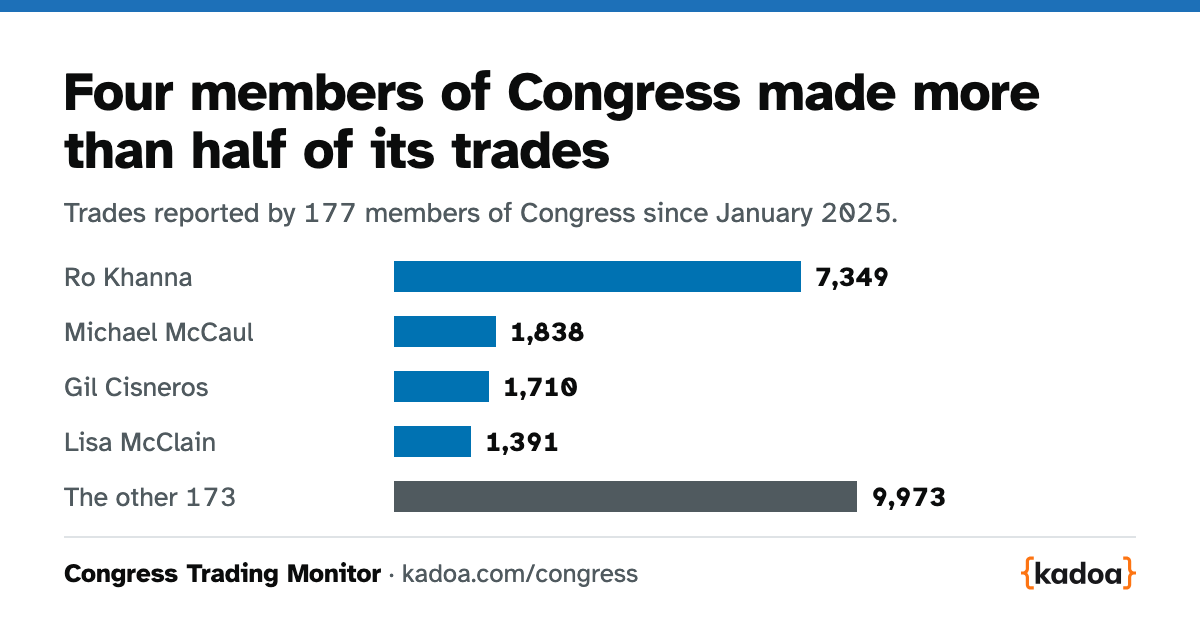
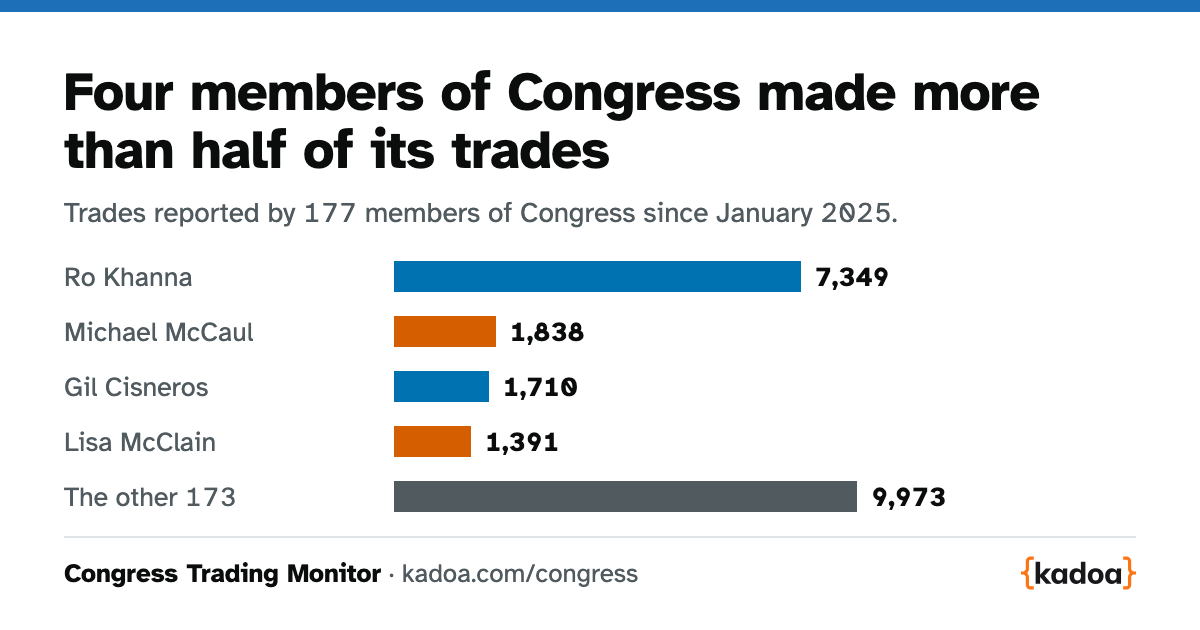
Trade concentration insight: bars coloured by party with a key, grouped bars split by party, Trump's accounts last in grey

Changed region(s): [[0.3083, 0.4825, 0.4317, 0.573], [0.3083, 0.6635, 0.4008, 0.7238]]

diff --git a/src/components/TradeConcentration.jsx b/src/components/TradeConcentration.jsx
@@ -5,8 +5,12 @@ import { ExtLink, fmtInt, HOUSE_FILINGS, Link, SENATE_FILINGS } from "../ui";
 // How concentrated Congress's reported trades are: each member's count since the 119th Congress began, the most
 // active first, and the same total beside Trump's accounts. The data is built in the datasets repo
 // (services/custom/datasets/congress-trading/charts/trade-concentration/site-data.mjs).
-// Colours: the four members the title names in blue, everyone else grey, Trump's accounts vermilion (Okabe-Ito).
-const C = { lead: "#0072B2", rest: "#9aa0a6", trump: "#D55E00", muted: "#505a5f" };
+// Colours: a member's party, in the two Okabe-Ito hues that stay apart under colour blindness (blue for Democrats,
+// vermilion for Republicans, with a darker vermilion for text). A bar of several members is split by party. Trump's
+// accounts are dark grey: a comparison, not a member.
+const C = { D: "#0072B2", R: "#D55E00", other: "#8a9096", trump: "#505a5f", muted: "#505a5f" };
+const TEXT = { D: "#0072B2", R: "#B34E00" };
+const PARTIES = [["D", "Democrats"], ["R", "Republicans"]];
 const LEAD = 4, TOP = 10;
 const MONTHS = ["Jan", "Feb", "Mar", "Apr", "May", "Jun", "Jul", "Aug", "Sep", "Oct", "Nov", "Dec"];
 const day = (s) => `${+s.slice(8)} ${MONTHS[+s.slice(5, 7) - 1]} ${s.slice(0, 4)}`;
@@ -20,10 +24,14 @@ function download(file, header, rows) {
   const a = document.createElement("a"); a.href = url; a.download = file; a.click(); URL.revokeObjectURL(url);
 }
 
-// Horizontal bars on one scale: a name, an optional note after it, the bar, then the count and an optional share.
+// Horizontal bars on one scale: a name, an optional note after it, the bar (one colour, or parts side by side), then
+// the count and an optional share. The key names the two party colours.
 function Bars({ rows, max, label }) {
   return (
     <figure className="m-0" role="img" aria-label={label}>
+      <div className="mb-3 flex flex-wrap gap-x-6 gap-y-1 text-[16px]">
+        {PARTIES.map(([k, name]) => <span key={k} className="flex items-center gap-2"><i className="block h-4 w-4 rounded-[2px]" style={{ background: C[k] }} /><b style={{ color: TEXT[k] }}>{name}</b></span>)}
+      </div>
       <div className="flex flex-col gap-2">
         {rows.map((r) => (
           <div key={r.key} className={`grid grid-cols-[124px_minmax(0,1fr)] items-center gap-3 sm:grid-cols-[250px_minmax(0,1fr)] ${r.rule ? "mt-2 border-t border-[#0b0c0c] pt-4" : ""}`}>
@@ -31,7 +39,9 @@ function Bars({ rows, max, label }) {
               <b>{r.label}</b>{r.note && <span className="block sm:ml-2 sm:inline" style={{ color: C.muted }}>{r.note}</span>}
             </div>
             <div className="flex items-center gap-2">
-              <div className="h-7 shrink-0" style={{ width: `max(3px, calc((100% - 112px) * ${(r.value / max).toFixed(4)}))`, background: r.colour }} />
+              <div className="flex h-7 shrink-0" style={{ width: `max(3px, calc((100% - 112px) * ${(r.value / max).toFixed(4)}))`, background: r.colour }}>
+                {r.parts?.map((part) => <span key={part.key} style={{ width: `${(100 * part.value) / r.value}%`, background: part.colour }} />)}
+              </div>
               <span className="whitespace-nowrap text-[16px]"><b>{fmtInt(r.value)}</b>{r.share != null && <span className="ml-2" style={{ color: C.muted }}>{r.share}</span>}</span>
             </div>
           </div>
@@ -49,15 +59,19 @@ export default function TradeConcentration() {
   const names = `${lead.slice(0, -1).map((m) => m.name).join(", ")} and ${lead.at(-1).name}`;
   const busy = members.filter((m) => m.trades >= 100).length;
   const seat = (m) => `${m.party}-${m.state}`;
+  const colour = (m) => C[m.party] ?? C.other;
+  // A group of members as one bar, Democrats first, then Republicans, then anyone else.
+  const byParty = (rows) => ["D", "R", "other"].map((k) => ({ key: k, value: sum(rows.filter((m) => (k === "other" ? m.party !== "D" && m.party !== "R" : m.party === k))), colour: C[k] })).filter((part) => part.value > 0);
   const memberBars = [
-    ...top.map((m, i) => ({ key: m.id, label: m.name, note: seat(m), value: m.trades, share: pct(m.trades), colour: i < LEAD ? C.lead : C.rest })),
-    { key: "rest", label: `The other ${rest.length} who traded`, value: sum(rest), share: pct(sum(rest)), colour: C.rest, rule: true },
+    ...top.map((m) => ({ key: m.id, label: m.name, note: seat(m), value: m.trades, share: pct(m.trades), colour: colour(m) })),
+    { key: "rest", label: `The other ${rest.length} who traded`, value: sum(rest), share: pct(sum(rest)), parts: byParty(rest), rule: true },
   ];
   const against = [
-    { key: "trump", label: "Trump's accounts", note: `to ${month(trump.to)}`, value: trump.trades, colour: C.trump },
-    { key: "congress", label: "All of Congress", note: `${members.length} members`, value: total, colour: C.rest },
-    { key: "lead", label: lead[0].name, note: seat(lead[0]), value: lead[0].trades, colour: C.lead },
+    { key: "congress", label: "All of Congress", note: `${members.length} members`, value: total, parts: byParty(members) },
+    { key: "lead", label: lead[0].name, note: seat(lead[0]), value: lead[0].trades, colour: colour(lead[0]) },
+    { key: "trump", label: "Trump's accounts", note: `to ${month(trump.to)}`, value: trump.trades, colour: C.trump, rule: true },
   ];
+  const partyTrades = (k) => sum(members.filter((m) => m.party === k));
   const ranked = members.map((m, i) => ({ ...m, rank: i + 1 }));
   return (
     <>
@@ -68,7 +82,7 @@ export default function TradeConcentration() {
       <ChartCard
         id="members-title"
         title={`${lead[0].name} alone made ${pct(lead[0].trades)} of the trades`}
-        description={`Trades reported by each of the ${TOP} most active members and their share of the total. ${busy} members made 100 or more.`}
+        description={`Trades reported by each of the ${TOP} most active members and their share of the total. ${busy} members made 100 or more. Democrats made ${fmtInt(partyTrades("D"))} of the trades and Republicans ${fmtInt(partyTrades("R"))}.`}
         date={`${day(from)} to ${day(to)}`}
         tabs={[
           { label: "Chart", content: <Bars rows={memberBars} max={memberBars[0].value} label={`Trades reported by the ${TOP} most active members of Congress and by all other members together`} /> },
@@ -106,7 +120,7 @@ export default function TradeConcentration() {
         title="Trump's accounts made more trades than every member together"
         description={<>Disclosed trades since January 2025. Trump&apos;s latest report ends in {month(trump.to)}. More in <Link to="/insights/trump-trades">Trump&apos;s trades against Congress</Link>.</>}
       >
-        <Bars rows={against} max={against[0].value} label={`Trades by Trump's accounts, by all members of Congress and by ${lead[0].name}`} />
+        <Bars rows={against} max={trump.trades} label={`Trades by Trump's accounts, by all members of Congress and by ${lead[0].name}`} />
       </ChartCard>
       <section className="insight-about">
         <h2>About the data</h2>
